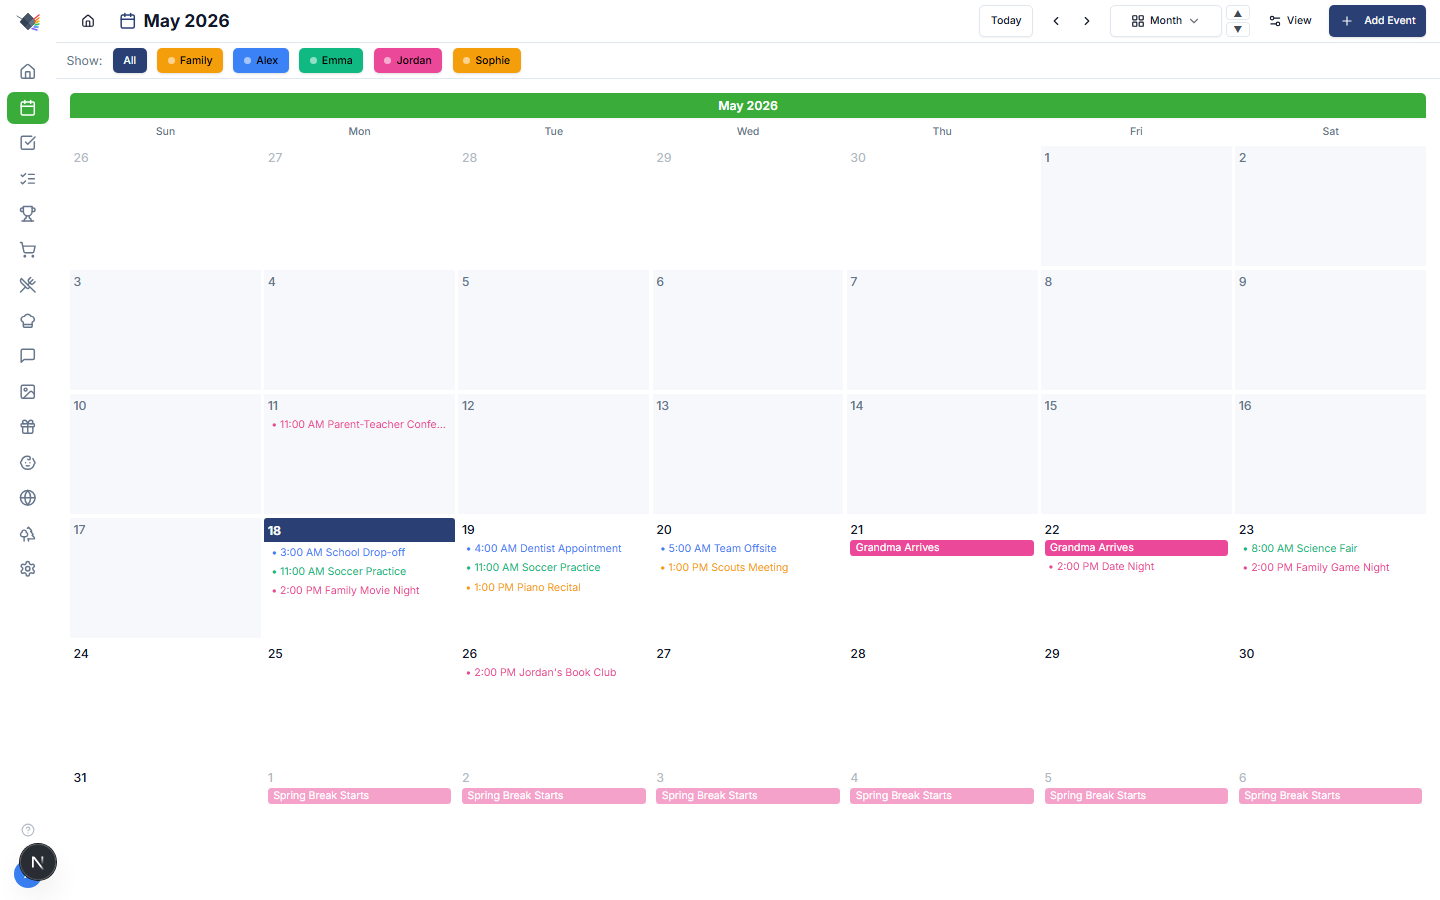
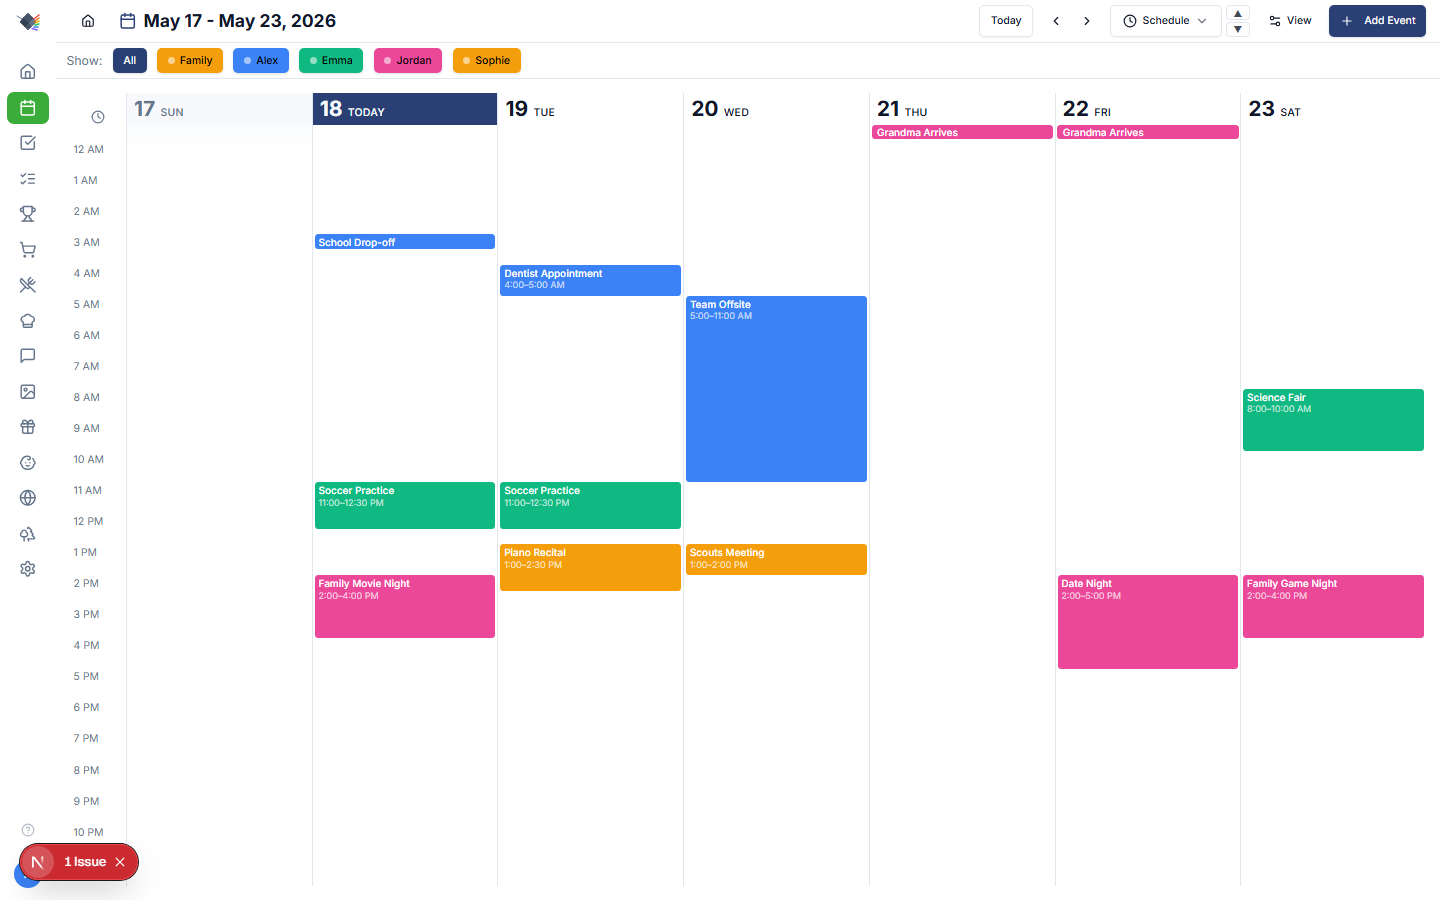
docs(screenshots): capture five distinct calendar views (month, multi-week, day, week, agenda)
The previous capture script used button-text selectors against the
calendar view picker, which is a dropdown popover. The selectors never
matched (the popover wasn't open) so every "calendar-*.png" actually
rendered the default Month view — calendar-week and calendar-agenda were
byte-identical to each other and to the underlying Month default.

Switched to pre-seeding the view via the localStorage keys the view-data
hook already reads on mount (prism-calendar-view-type / -week-count).
Same pattern moved theme pre-seeding into the same addInitScript so the
page renders directly in the requested state. Also bumped settleMs to 6s
so the events fetch + spinner clears before the screenshot.

Added a name-filter CLI arg to capture-screenshots.ts so a single
section can be re-run without re-capturing everything.

diff --git a/scripts/capture-screenshots.ts b/scripts/capture-screenshots.ts
@@ -26,6 +26,15 @@ const OUT_DIR = path.resolve(__dirname, '..', 'docs', 'demos');
 const DESKTOP_VIEWPORT = { width: 1440, height: 900 };
 const MOBILE_VIEWPORT = { width: 390, height: 844 }; // iPhone 14
 
+type CalendarViewType =
+  | 'agenda'
+  | 'day'
+  | 'week'
+  | 'weekVertical'
+  | 'multiWeek'
+  | 'month'
+  | 'threeMonth';
+
 interface CaptureSpec {
   name: string;
   url: string;
@@ -36,6 +45,14 @@ interface CaptureSpec {
   theme?: 'light' | 'dark';
   /** Mobile viewport instead of desktop */
   mobile?: boolean;
+  /**
+   * Pre-seed the calendar view via localStorage before navigation. The view
+   * picker (ViewMenu) reads `prism-calendar-view-type` and `prism-calendar-
+   * week-count` on mount, so this is the most reliable way to land on a
+   * specific view — no need to click through the popover.
+   */
+  calendarView?: CalendarViewType;
+  calendarWeekCount?: 1 | 2 | 3 | 4;
   /** Optional pre-screenshot setup (e.g. click into a sub-view) */
   setup?: (page: Page) => Promise<void>;
 }
@@ -65,52 +82,51 @@ const SCREENSHOTS: CaptureSpec[] = [
   },
 
   // ─── Calendar ──────────────────────────────────────────────
+  // Each view is pre-seeded via localStorage rather than clicking the view
+  // picker — see CaptureSpec.calendarView above for the rationale.
   {
     name: 'calendar-month',
     url: '/calendar',
     description: 'Calendar month view',
-    settleMs: 1500,
-    setup: async (page) => {
-      // Switch to month view if not default
-      const monthBtn = page.locator('button:has-text("Month")').first();
-      if (await monthBtn.isVisible()) {
-        await monthBtn.click().catch(() => {});
-        await page.waitForTimeout(500);
-      }
-    },
+    settleMs: 6000,
+    calendarView: 'month',
+  },
+  {
+    name: 'calendar-multiweek',
+    url: '/calendar',
+    description: 'Calendar multi-week view (2 weeks)',
+    settleMs: 6000,
+    calendarView: 'multiWeek',
+    calendarWeekCount: 2,
   },
   {
     name: 'calendar-week',
     url: '/calendar',
-    description: 'Calendar week view',
-    settleMs: 1500,
-    setup: async (page) => {
-      const viewBtn = page.locator('button:has-text("1W")').first();
-      if (await viewBtn.isVisible()) {
-        await viewBtn.click().catch(() => {});
-        await page.waitForTimeout(500);
-      }
-    },
+    description: 'Calendar schedule view (single-week timeline)',
+    settleMs: 6000,
+    calendarView: 'week',
+  },
+  {
+    name: 'calendar-day',
+    url: '/calendar',
+    description: 'Calendar day view (side-by-side per-person columns)',
+    settleMs: 6000,
+    calendarView: 'day',
   },
   {
     name: 'calendar-agenda',
     url: '/calendar',
-    description: 'Calendar agenda view',
-    settleMs: 1000,
-    setup: async (page) => {
-      const viewBtn = page.locator('button:has-text("Agenda")').first();
-      if (await viewBtn.isVisible()) {
-        await viewBtn.click().catch(() => {});
-        await page.waitForTimeout(500);
-      }
-    },
+    description: 'Calendar agenda view (chronological list)',
+    settleMs: 6000,
+    calendarView: 'agenda',
   },
   {
     name: 'calendar-mobile',
     url: '/calendar',
     description: 'Mobile calendar (agenda-only)',
     mobile: true,
-    settleMs: 1000,
+    settleMs: 5000,
+    calendarView: 'agenda',
   },
 
   // ─── Shopping ──────────────────────────────────────────────
@@ -209,17 +225,6 @@ const SCREENSHOTS: CaptureSpec[] = [
   },
 ];
 
-async function setTheme(page: Page, theme: 'light' | 'dark') {
-  await page.evaluate((t) => {
-    const html = document.documentElement;
-    html.classList.remove('light', 'dark');
-    html.classList.add(t);
-    try {
-      localStorage.setItem('theme', t);
-    } catch {}
-  }, theme);
-}
-
 async function loginAsAlex(page: Page) {
   const familyResp = await page.request.get('/api/family');
   const familyJson = await familyResp.json();
@@ -284,6 +289,33 @@ async function captureOnce(browser: Browser, spec: CaptureSpec): Promise<void> {
 
   const page = await context.newPage();
 
+  // Pre-seed localStorage BEFORE first paint so the page renders directly in
+  // the requested state (theme + calendar view) without a mid-load swap.
+  // Without this, switching state after mount re-triggers widget loading
+  // states and the settle wait can capture a half-loaded view.
+  await page.addInitScript(
+    ({ theme, calendarView, calendarWeekCount }) => {
+      try {
+        if (theme) {
+          localStorage.setItem('theme', theme);
+          document.documentElement.classList.remove('light', 'dark');
+          document.documentElement.classList.add(theme);
+        }
+        if (calendarView) {
+          localStorage.setItem('prism-calendar-view-type', calendarView);
+        }
+        if (calendarWeekCount) {
+          localStorage.setItem('prism-calendar-week-count', String(calendarWeekCount));
+        }
+      } catch {}
+    },
+    {
+      theme: spec.theme ?? null,
+      calendarView: spec.calendarView ?? null,
+      calendarWeekCount: spec.calendarWeekCount ?? null,
+    },
+  );
+
   try {
     // Login first (against the base URL — sets auth cookies on the context).
     // Use 'load' rather than 'networkidle': Next.js dev mode keeps a hot-reload
@@ -293,11 +325,6 @@ async function captureOnce(browser: Browser, spec: CaptureSpec): Promise<void> {
 
     // Navigate to the target page.
     await page.goto(spec.url, { waitUntil: 'load', timeout: 60_000 });
-
-    if (spec.theme) {
-      await setTheme(page, spec.theme);
-      await page.waitForTimeout(300);
-    }
 
     if (spec.setup) {
       await spec.setup(page);
@@ -367,7 +394,20 @@ async function main() {
     fs.mkdirSync(OUT_DIR, { recursive: true });
   }
 
-  console.log(`\nCapturing ${SCREENSHOTS.length} screenshots from ${BASE_URL}`);
+  // Optional filter: `npm run screenshots:capture -- calendar` runs only specs
+  // whose name contains "calendar". Multiple substrings combine with OR.
+  const filterArgs = process.argv.slice(2);
+  const specs = filterArgs.length
+    ? SCREENSHOTS.filter((s) => filterArgs.some((f) => s.name.includes(f)))
+    : SCREENSHOTS;
+
+  if (specs.length === 0) {
+    console.error(`No screenshots match filter: ${filterArgs.join(', ')}`);
+    process.exit(1);
+  }
+
+  console.log(`\nCapturing ${specs.length} screenshots from ${BASE_URL}`);
+  if (filterArgs.length) console.log(`Filter: ${filterArgs.join(', ')}`);
   console.log(`Output: ${OUT_DIR}\n`);
 
   // Quick health check before spinning up the browser
@@ -388,7 +428,7 @@ async function main() {
   let failed = 0;
 
   try {
-    for (const spec of SCREENSHOTS) {
+    for (const spec of specs) {
       const success = await captureOne(browser, spec);
       if (success) ok++;
       else failed++;
@@ -400,7 +440,7 @@ async function main() {
     await browser.close();
   }
 
-  console.log(`\nDone. ${ok} of ${SCREENSHOTS.length} captured`);
+  console.log(`\nDone. ${ok} of ${specs.length} captured`);
   if (failed > 0) {
     console.log(`${failed} failed — re-run to retry, or capture individually.`);
     process.exit(1);

diff --git a/scripts/capture-one.ts b/scripts/capture-one.ts
@@ -1,22 +1,29 @@
 /**
  * Retry capture for a single page. Usage:
- *   npx tsx scripts/capture-one.ts <url-path> <output-name> [settle-ms]
+ *   npx tsx scripts/capture-one.ts <url-path> <output-name> [settle-ms] [theme]
  * Example:
  *   npx tsx scripts/capture-one.ts /tasks tasks 4000
+ *   npx tsx scripts/capture-one.ts / dashboard-light 25000 light
+ *
+ * Note: on Git Bash / MSYS, prefix the URL path with "//" not "/" or it
+ * gets re-interpreted as a Windows path. e.g. "//tasks" not "/tasks".
  */
 
 import { chromium } from '@playwright/test';
 import * as path from 'path';
 
 const BASE_URL = process.env.PRISM_URL || 'http://localhost:3010';
-const [, , urlPath, outputName, settleArg] = process.argv;
+const [, , urlPathRaw, outputName, settleArg, themeArg] = process.argv;
 
-if (!urlPath || !outputName) {
-  console.error('Usage: tsx scripts/capture-one.ts <url-path> <output-name> [settle-ms]');
+if (!urlPathRaw || !outputName) {
+  console.error('Usage: tsx scripts/capture-one.ts <url-path> <output-name> [settle-ms] [theme]');
   process.exit(1);
 }
 
+// Strip the MSYS-escape leading slash so Playwright sees "/tasks" not "//tasks".
+const urlPath = urlPathRaw.replace(/^\/{2,}/, '/');
 const settleMs = settleArg ? Number(settleArg) : 5000;
+const theme = themeArg === 'dark' || themeArg === 'light' ? themeArg : undefined;
 const OUT_DIR = path.resolve(__dirname, '..', 'docs', 'demos');
 
 async function loginAsAlex(page: any) {
@@ -36,8 +43,24 @@ async function loginAsAlex(page: any) {
     baseURL: BASE_URL,
     viewport: { width: 1440, height: 900 },
     reducedMotion: 'reduce',
+    colorScheme: theme === 'dark' ? 'dark' : 'light',
   });
   const page = await context.newPage();
+
+  // Pre-seed theme localStorage BEFORE first paint so the dashboard renders
+  // in the chosen theme without a mid-load class swap (which can re-trigger
+  // widget loading states and confuse the settle wait).
+  if (theme) {
+    await page.addInitScript((t: string) => {
+      try {
+        localStorage.setItem('theme', t);
+      } catch {}
+      // Set the class on <html> as early as possible so styles apply pre-mount.
+      document.documentElement.classList.remove('light', 'dark');
+      document.documentElement.classList.add(t);
+    }, theme);
+  }
+
   await page.goto('/', { waitUntil: 'load', timeout: 60_000 });
   await loginAsAlex(page);
   await page.goto(urlPath, { waitUntil: 'load', timeout: 60_000 });

diff --git a/docs/screenshots.md b/docs/screenshots.md
@@ -33,11 +33,19 @@ A visual tour of every page in Prism. Captured against a fresh seed (the synthet
 
     ![Calendar month view](demos/calendar-month.png)
 
--   **Week view**
+-   **Multi-week view (2 weeks)**
 
-    ![Calendar week view](demos/calendar-week.png)
+    ![Calendar multi-week view](demos/calendar-multiweek.png)
 
--   **Agenda view**
+-   **Schedule view (single week, hourly)**
+
+    ![Calendar schedule view](demos/calendar-week.png)
+
+-   **Day view (side-by-side per person)**
+
+    ![Calendar day view](demos/calendar-day.png)
+
+-   **Agenda view (chronological list)**
 
     ![Calendar agenda view](demos/calendar-agenda.png)
 
